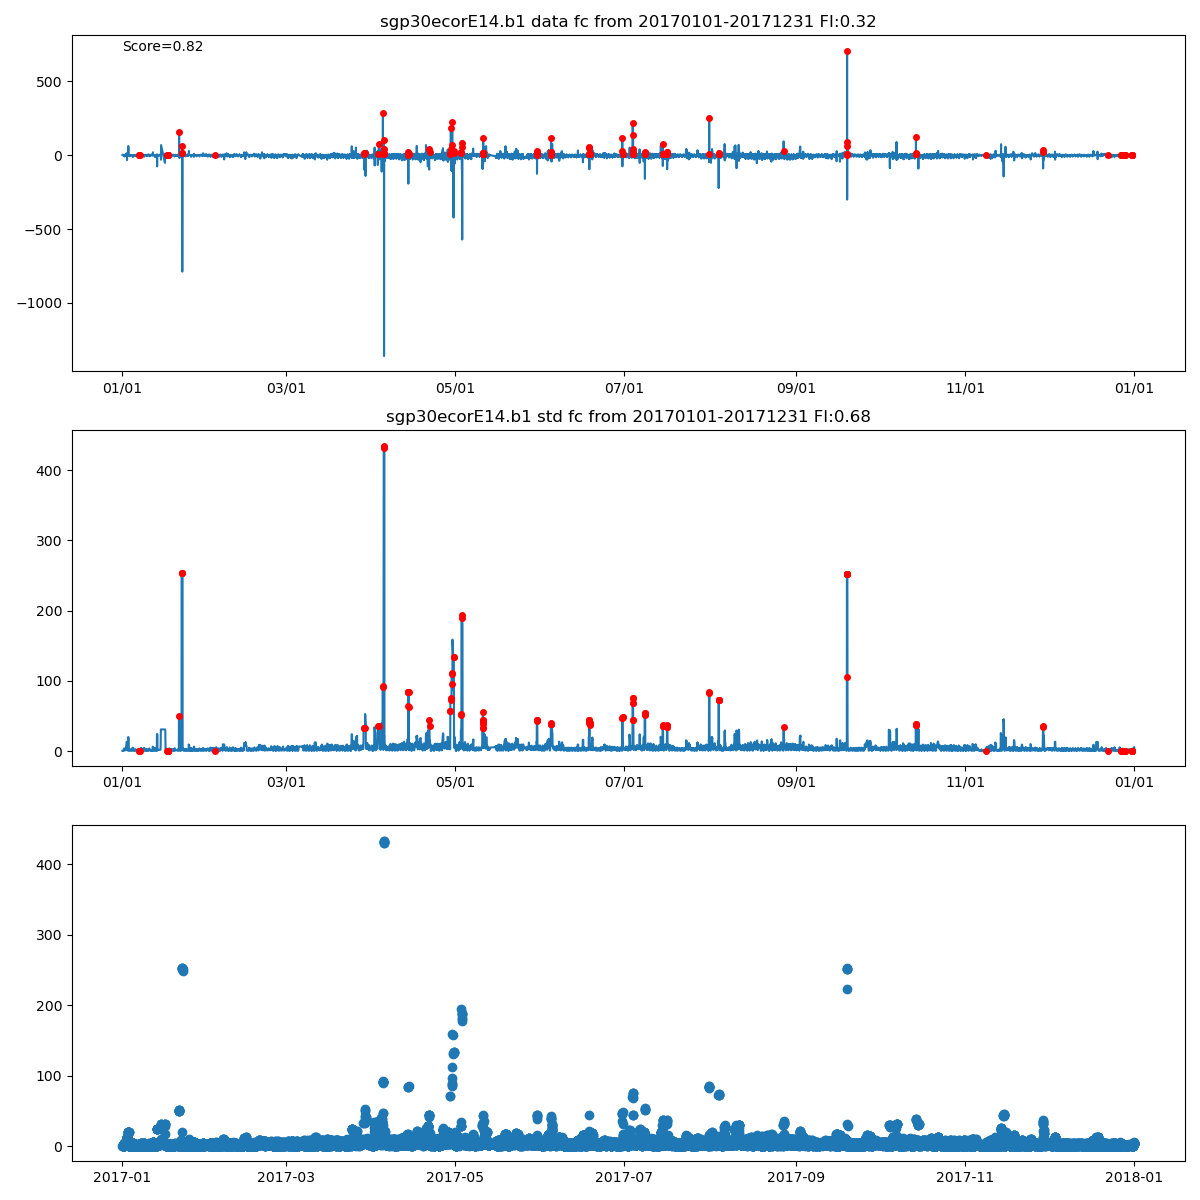
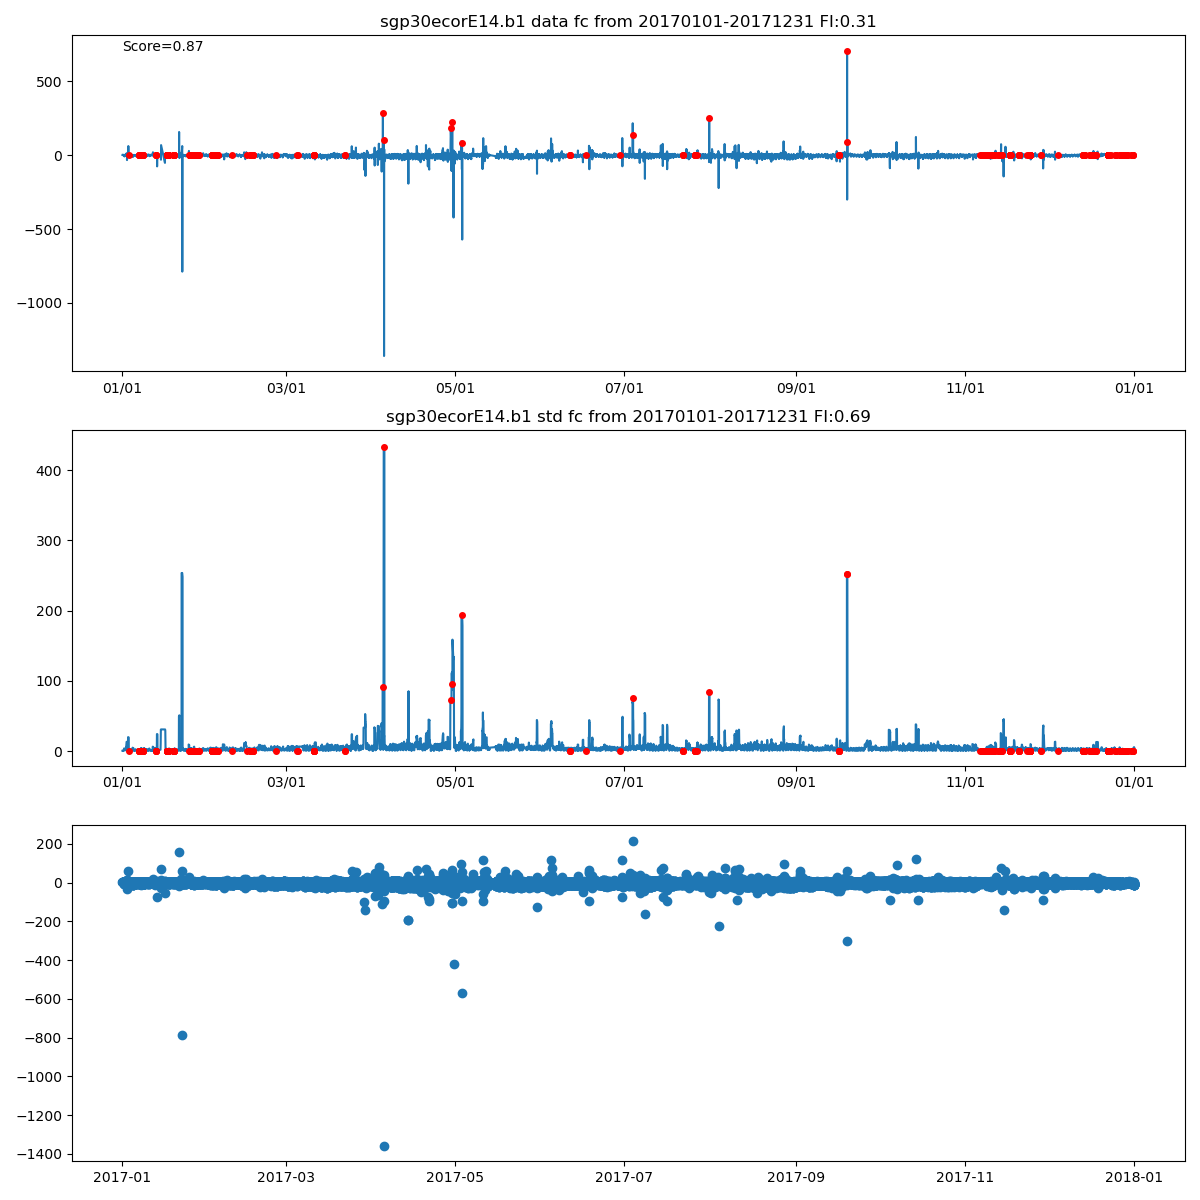
Again

diff --git a/dqr_training/dqr_ml.py b/dqr_training/dqr_ml.py
@@ -84,7 +84,7 @@ def visualizeResults(ds, varname, fig_name, score, fi):
 
     idx = (result == 1)
     index = np.where(idx)
-    sample_data = np.array(data[fi_name[i]])
+    sample_data = np.array(data['data'])
     new_time = np.reshape(sample_time[0, index], len(index[0]))
     new_data = sample_data[index]
     ax[-1].plot_date(new_time, new_data)
